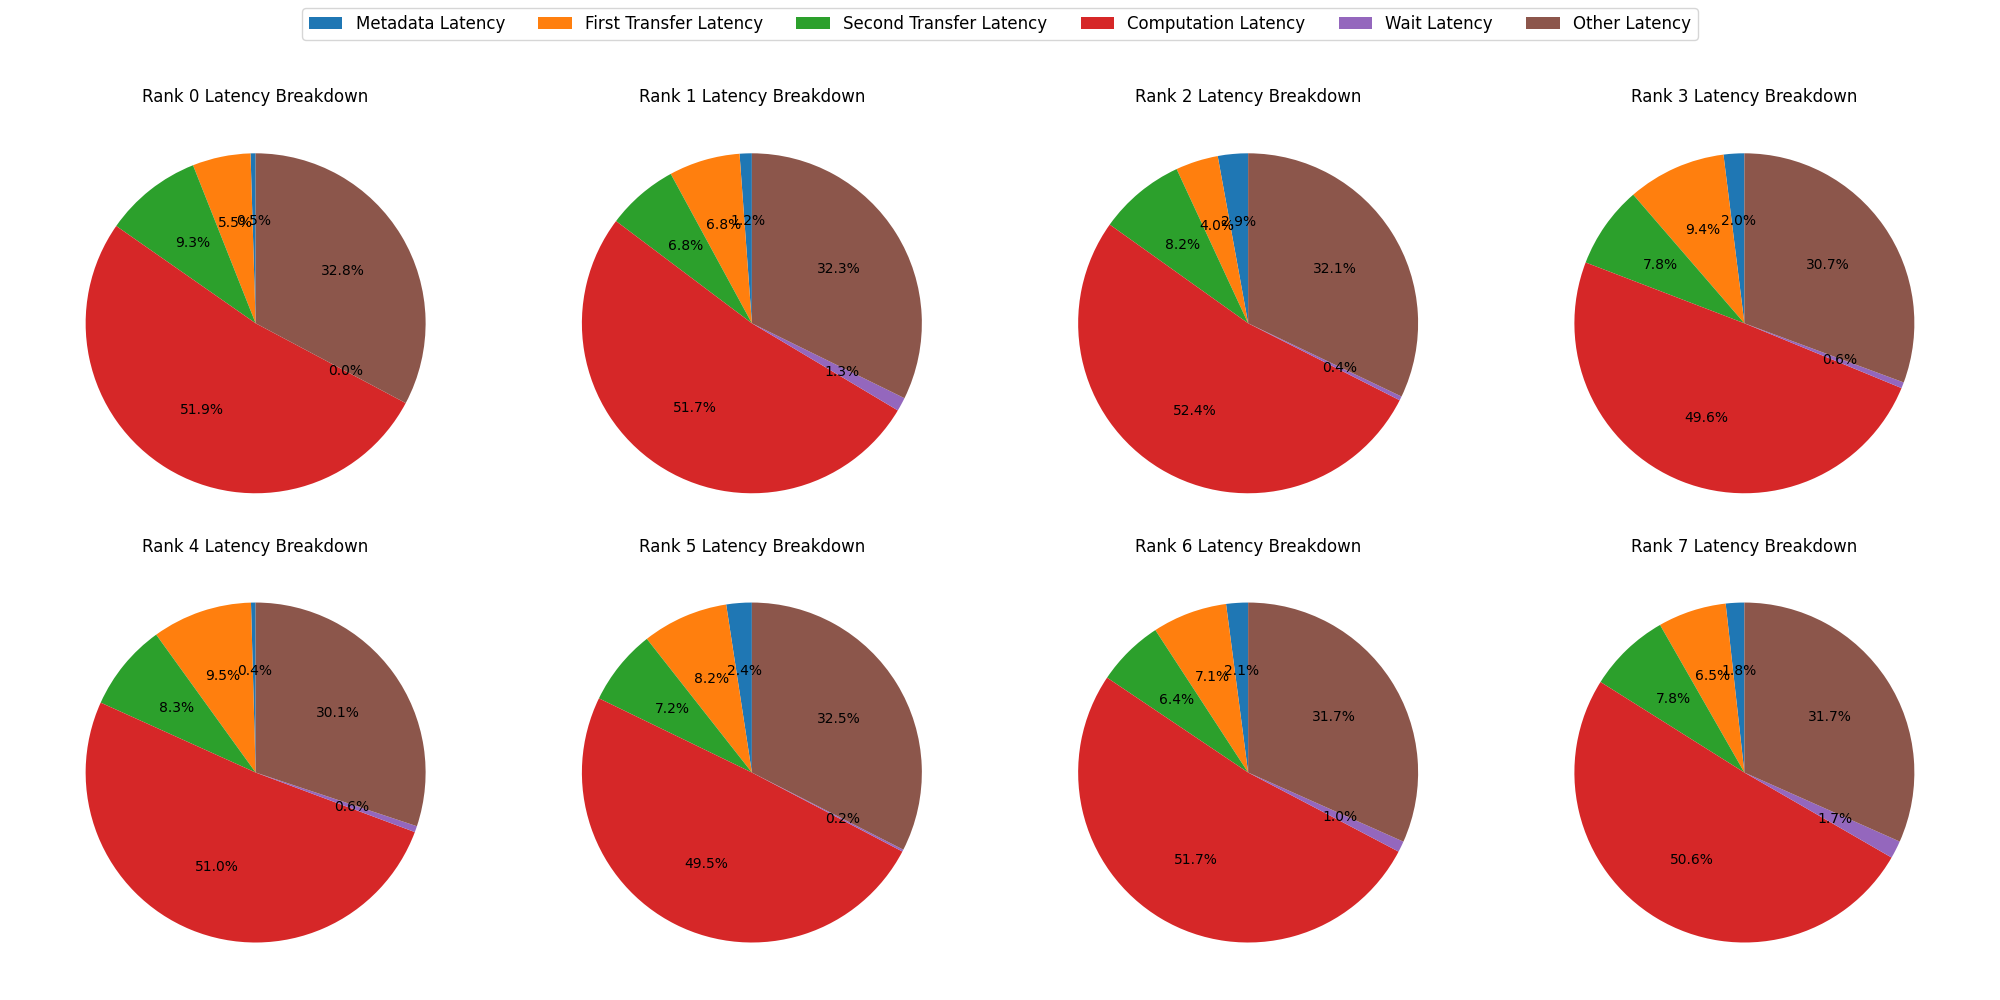
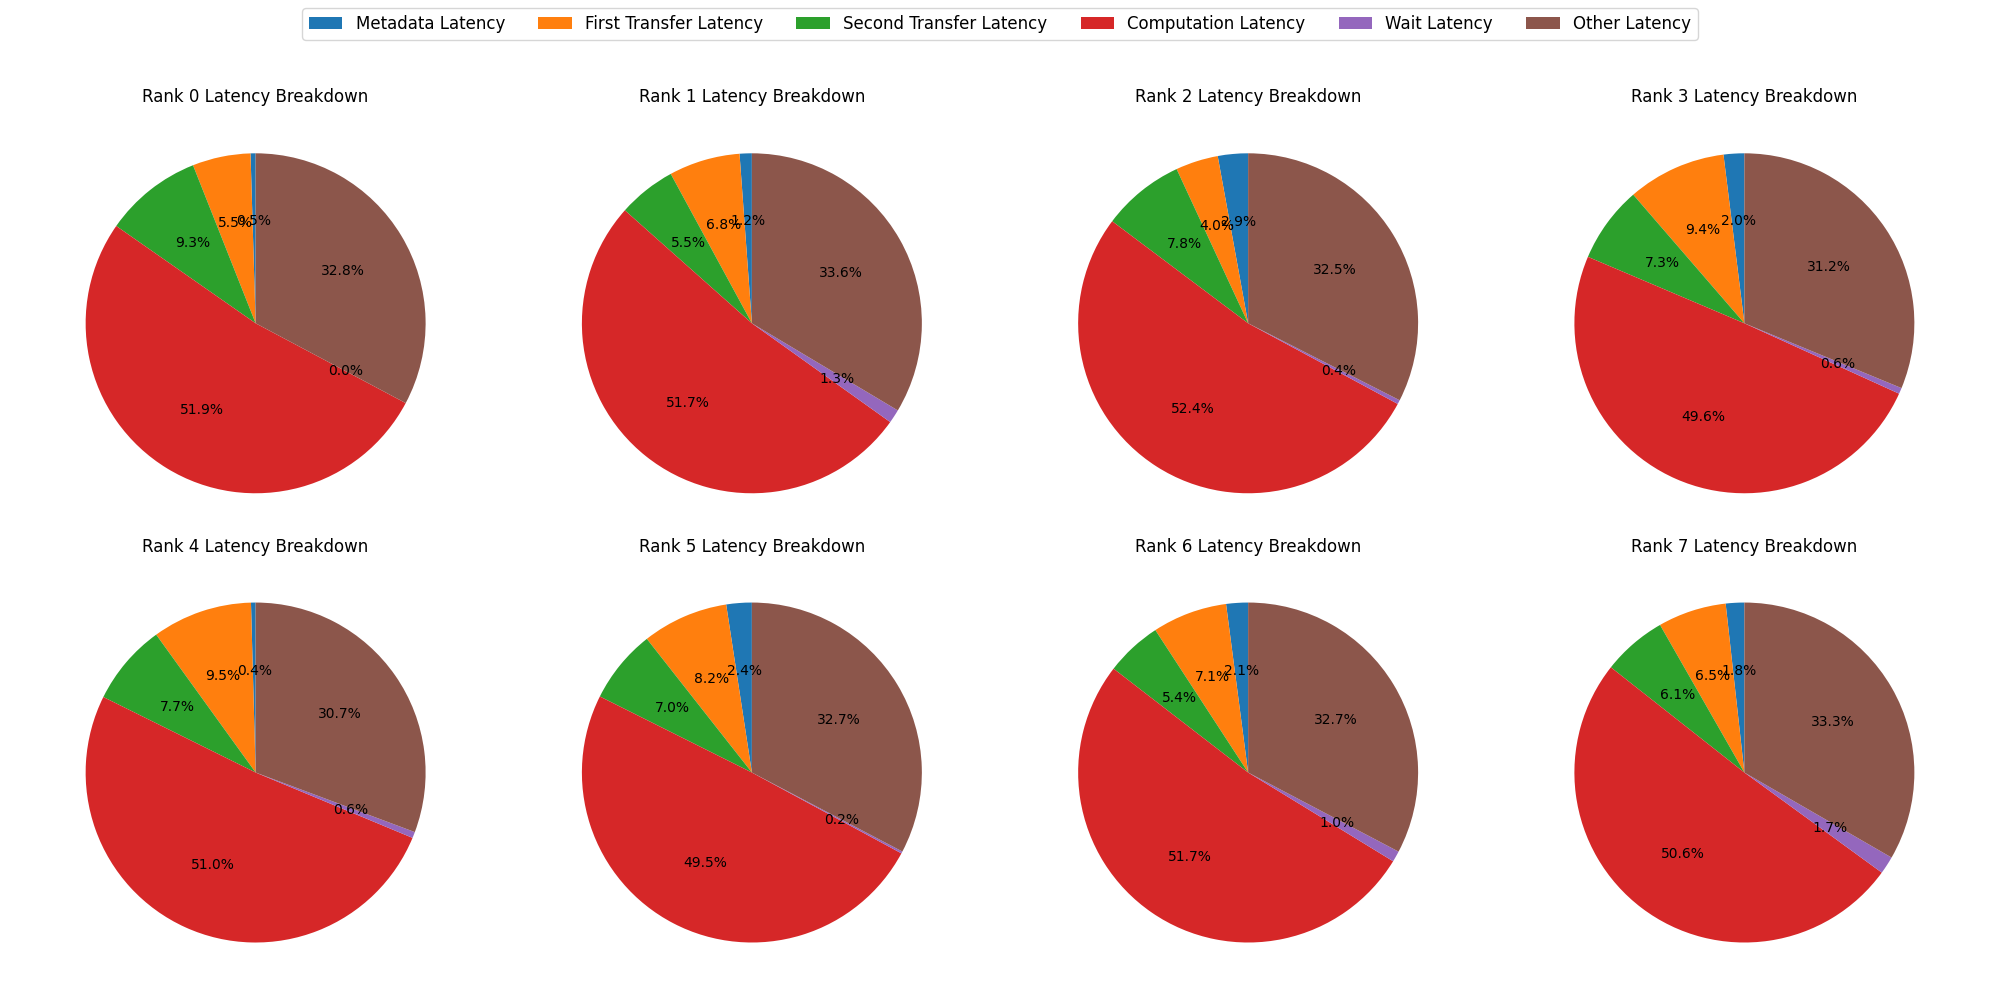
Fix plotting error

diff --git a/plotting/create_csv_timebreakdown.py b/plotting/create_csv_timebreakdown.py
@@ -25,6 +25,7 @@ for i in range(num_layers):
     _df = pd.DataFrame(_df)
     max_comp = _df["comp latency (ms)"].max()
     _df["wait latency (ms)"] = max_comp - _df["comp latency (ms)"]
+    _df["second transfer latency (ms)"] -= _df["wait latency (ms)"]
     columns_to_sum = _df.columns.difference(["rank", "latency (ms)"])
     _df["other latency (ms)"] = (_df["latency (ms)"] - _df[columns_to_sum].sum(axis=1)).clip(lower=0)
     _df["layer"] = i
